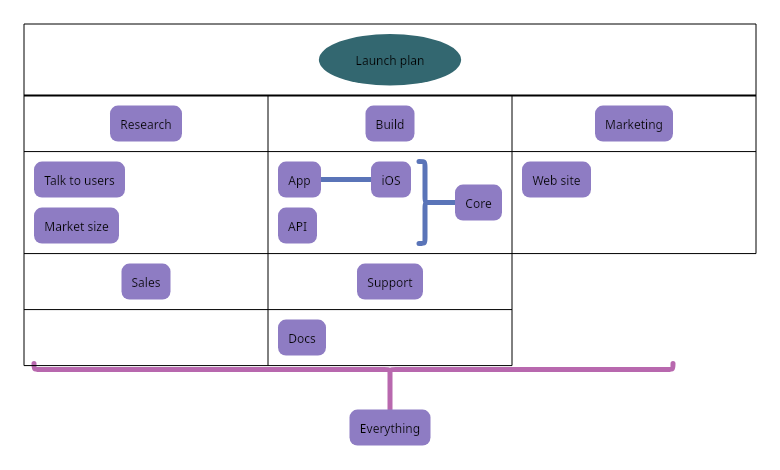
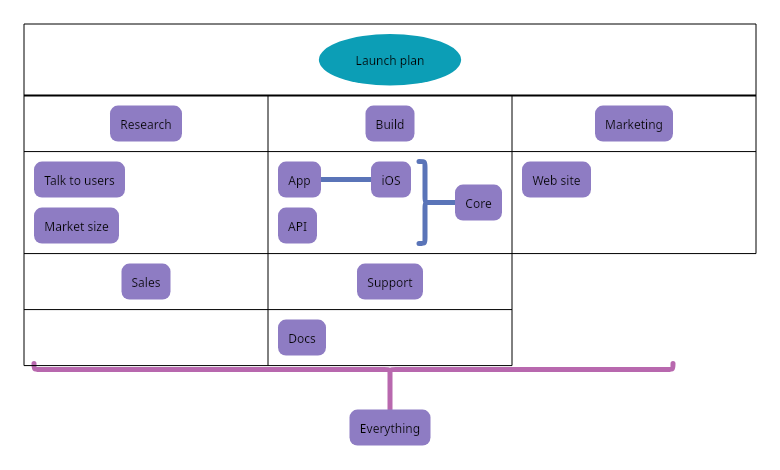
feat: the root starts in #0C9EB6, in place of #B691BF, and the node colors offer it
Maps saved with #B691BF as the root's default follow the new color. The pictures of the
matrix, tree table and grid are drawn again with the new root, as they still had #336770.

Changed region(s): [[0.4, 0.0596, 0.6154, 0.1787]]

diff --git a/library/src/commonMain/kotlin/com/corbettcode/mindmapview/library/data/Tree.kt b/library/src/commonMain/kotlin/com/corbettcode/mindmapview/library/data/Tree.kt
@@ -1301,11 +1301,16 @@ class Tree<T> {
         private const val ROOT_ID = "root"
         private const val ROOT_EMOJI = "🌱"
 
-        internal val ROOT_COLOR = Color(0xFFB691BF)
+        internal val ROOT_COLOR = Color(0xFF0C9EB6)
         internal val ROOT_TEXT_COLOR = NodeShape.OVAL.defaultTextColor
 
         // The colors the root and the shapes started with in earlier versions of the app.
-        private val EARLIER_ROOT_COLORS = setOf(Color(0xFFB8B8B8), Color(0xFFCCCCCC), Color(0xFF336770))
+        private val EARLIER_ROOT_COLORS = setOf(
+            Color(0xFFB8B8B8)
+            , Color(0xFFCCCCCC)
+            , Color(0xFF336770)
+            , Color(0xFFB691BF)
+        )
         private val EARLIER_SHAPE_COLORS = mapOf(
             NodeShape.RECTANGLE to setOf(Color(0xFFFFCF96))
             , NodeShape.CIRCLE to setOf(Color(0xFFE1719F))

diff --git a/library/src/commonTest/kotlin/com/corbettcode/mindmapview/library/MindMapTest.kt b/library/src/commonTest/kotlin/com/corbettcode/mindmapview/library/MindMapTest.kt
@@ -282,11 +282,11 @@ class MindMapTest {
     }
 
     @Test
-    fun rootIsAPurpleOvalWithBlackText() {
+    fun rootIsACyanOvalWithBlackText() {
         val root: NodeData<*> = Tree<Any>(Dp(150f), Dp(300f)).getRootNode()
         assertIs<OvalNodeData>(root)
         assertEquals("🌱" to "root", DescriptionEmoji.split(root.description))
-        assertEquals(Color(0xFFB691BF), root.color)
+        assertEquals(Color(0xFF0C9EB6), root.color)
         assertEquals(Color.Black, root.textColor)
     }
 

diff --git a/desktop/src/commonMain/kotlin/com/mindsync/mindmapview/desktop/MindMapApp.kt b/desktop/src/commonMain/kotlin/com/mindsync/mindmapview/desktop/MindMapApp.kt
@@ -122,6 +122,7 @@ val DEFAULT_NODE_COLORS = NodeShape.entries.map { it.defaultColor } + listOf(
     , Color(0xFF4B877B)
     , Color(0xFF336770)
     , Color(0xFFB691BF)
+    , Color(0xFF0C9EB6)
     , Color(0xFFB9884E)
     , Color(0xFF6FA8DC)
 ).distinct()
